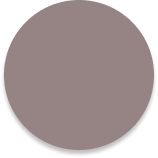
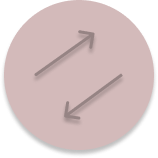
Update CurrencyConverter.js
Edit styling

diff --git a/tracklah-frontend/containers/App/CurrencyConverter.js b/tracklah-frontend/containers/App/CurrencyConverter.js
@@ -4,22 +4,17 @@ import{
     SafeAreaView,
     StatusBar,
     Image,
-    View
+    View,
 } from 'react-native';
 import { ConversionInput } from '../../components/ConversionInput';
 import currencyStyles from '../../styles/CurrencyConverter-styles';
-import { Ionicons } from '@expo/vector-icons';
+import styles from '../../styles/ConversionInput-styles';
 
 export default function CurrencyConverter(){
     return(
         <SafeAreaView style={currencyStyles.container}>
             <StatusBar barStyle='dark-content'/>
-            <View>
-                <Ionicons
-                    name="repeat-outline"
-                    size={30}
-                    style={currencyStyles.icon}
-                />
+            <View style={currencyStyles.view}>
                 <Image
                     style={currencyStyles.image}
                     source={require('../../assets/ConverterCircle.png')}
@@ -27,7 +22,6 @@ export default function CurrencyConverter(){
             </View>
             <TouchableOpacity>
                 <ConversionInput
-                    style={currencyStyles.input} 
                     text="SGD"
                     value="123"
                     onButtonPress={() => alert('todo!')}

diff --git a/tracklah-frontend/styles/CurrencyConverter-styles.js b/tracklah-frontend/styles/CurrencyConverter-styles.js
@@ -5,9 +5,24 @@ const screen = Dimensions.get('window');
 
 const currencyStyles = StyleSheet.create({
     container: {
-        backgroundColor: colors.mainBackground,
         flex: 1,
         justifyContent: "center",
+        backgroundColor: colors.mainBackground,
+    },
+    view:{
+        backgroundColor: colors.drawer,
+        width: "90%",
+        height: "90%",
+        position: "absolute",
+        borderRadius: 20,
+        elevation: 5,
+        backgroundColor: colors.drawer,
+        shadowOffset: {width: 1, height: 1}, 
+        shadowColor: "#000",
+        shadowOpacity: 0.5,
+        shadowRadius: 2,
+        top: "5%",
+        left: "5%"
     },
     image: {
         position: "absolute",
@@ -15,18 +30,10 @@ const currencyStyles = StyleSheet.create({
         alignItems: "center",
         width: screen.width * 0.50,
         height: screen.width * 0.50,
-        left: "25%",
-        bottom: "10%",
+        left: "20%",
+        top: "10%",
         resizeMode: 'contain',
     },
-    icon: {
-        position: "absolute",
-        width: screen.width * 0.75,
-        height: screen.width * 0.75,
-        left: "20%",
-        top: "20%",
-
-    }
 });
  
 export default currencyStyles;

diff --git a/tracklah-frontend/styles/ConversionInput-styles.js b/tracklah-frontend/styles/ConversionInput-styles.js
@@ -13,6 +13,11 @@ const styles = StyleSheet.create({
         shadowColor: "#000",
         shadowOpacity: 0.5,
         shadowRadius: 2,
+        top: "10%",
+        left: "5%",
+        width: "85%",
+        justifyContent: "center",
+        alignItems: "center"
     },
     button: {
         padding: 15,

diff --git a/tracklah-frontend/styles/card-styles.js b/tracklah-frontend/styles/card-styles.js
@@ -13,13 +13,11 @@ const cardStyles = StyleSheet.create({
         shadowOpacity: 0.5,
         shadowRadius: 2,
     },
-
     cardContent: {
         fontWeight: "bold",
         marginHorizontal: 18,
         marginVertical: 20
     },
-
     totalExText: {
         fontSize: 58,
         fontWeight: "bold",
